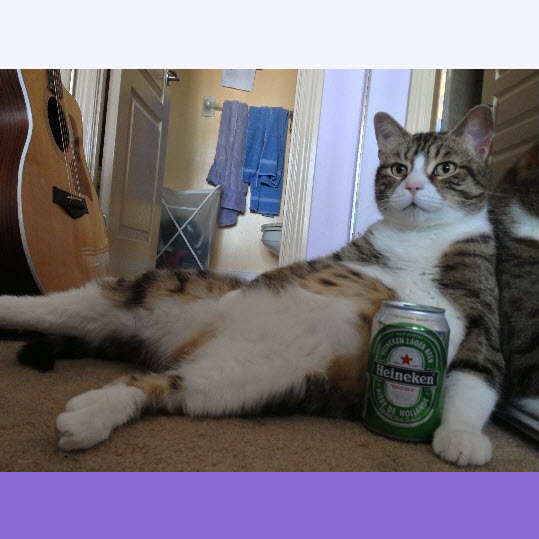
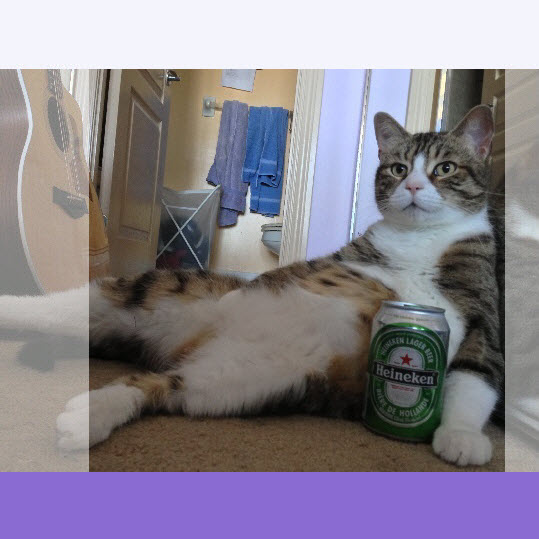
fix: removed animation for now so I can push this out, then I will re-visit it down the road at some point

Changed region(s): [[0.0, 0.1187, 0.1781, 0.8905], [0.9202, 0.1187, 1.0, 0.8905]]

diff --git a/app/scss/_carousel.scss b/app/scss/_carousel.scss
@@ -20,7 +20,7 @@
   &-slide {
     z-index: 100;
     opacity: 0;
-    transition: all 500ms ease-in-out;
+    // transition: all 500ms ease-in-out;
     position: absolute;
 
 
@@ -31,18 +31,20 @@
       z-index: 900;
     }
 
-    &.prev,
-    &.next {
-      z-index: 800;
-    }
+    // Was originally trying to make an animation that didn't pan out at all
+    // Commenting out for now and will re-visit in the future
+    // &.prev,
+    // &.next {
+    //   z-index: 800;
+    // }
 
-    &.prev {
-      transform: translateX(-100%);
-    }
+    // &.prev {
+    //   transform: translateX(-100%);
+    // }
 
-    &.next {
-      transform: translateX(100%);
-    }
+    // &.next {
+    //   transform: translateX(100%);
+    // }
   }
 
   &-controls {

diff --git a/index.html b/index.html
@@ -65,7 +65,7 @@
           </div>
           <p class="carousel__testimonial carousel-slide">
             “ I had no idea what I was doing before this course. They told me there would be bugs
-            and mice so I signed up. Before you know it, I was catching all bugs left and right!
+            and mice so I signed up. Before you know it, I was catching bugs left and right!
             Also, they have free beer. ”
           </p>
           <div class="l-col-to-row carousel__person carousel-slide">

diff --git a/dist/style.css b/dist/style.css
@@ -138,7 +138,6 @@ body {
 .carousel-slide {
   z-index: 100;
   opacity: 0;
-  transition: all 500ms ease-in-out;
   position: absolute;
 }
 
@@ -146,18 +145,6 @@ body {
   opacity: 1;
   position: relative;
   z-index: 900;
-}
-
-.carousel-slide.prev, .carousel-slide.next {
-  z-index: 800;
-}
-
-.carousel-slide.prev {
-  transform: translateX(-100%);
-}
-
-.carousel-slide.next {
-  transform: translateX(100%);
 }
 
 .carousel-controls {

diff --git a/app/js/script.js b/app/js/script.js
@@ -1,5 +1,6 @@
 // see site below for the tutorial/code that this is mostly based from
 // https://medium.com/@marcusmichaels/how-to-build-a-carousel-from-scratch-in-vanilla-js-9a096d3b98c9
+// I modified it to be more scalable but I have decided to not use an animation for the time being
 !(function (d) {
   var itemClassNames = ["carousel-img", "carousel__testimonial", "carousel__person"],
     slides = itemClassNames.map(function (e) {
